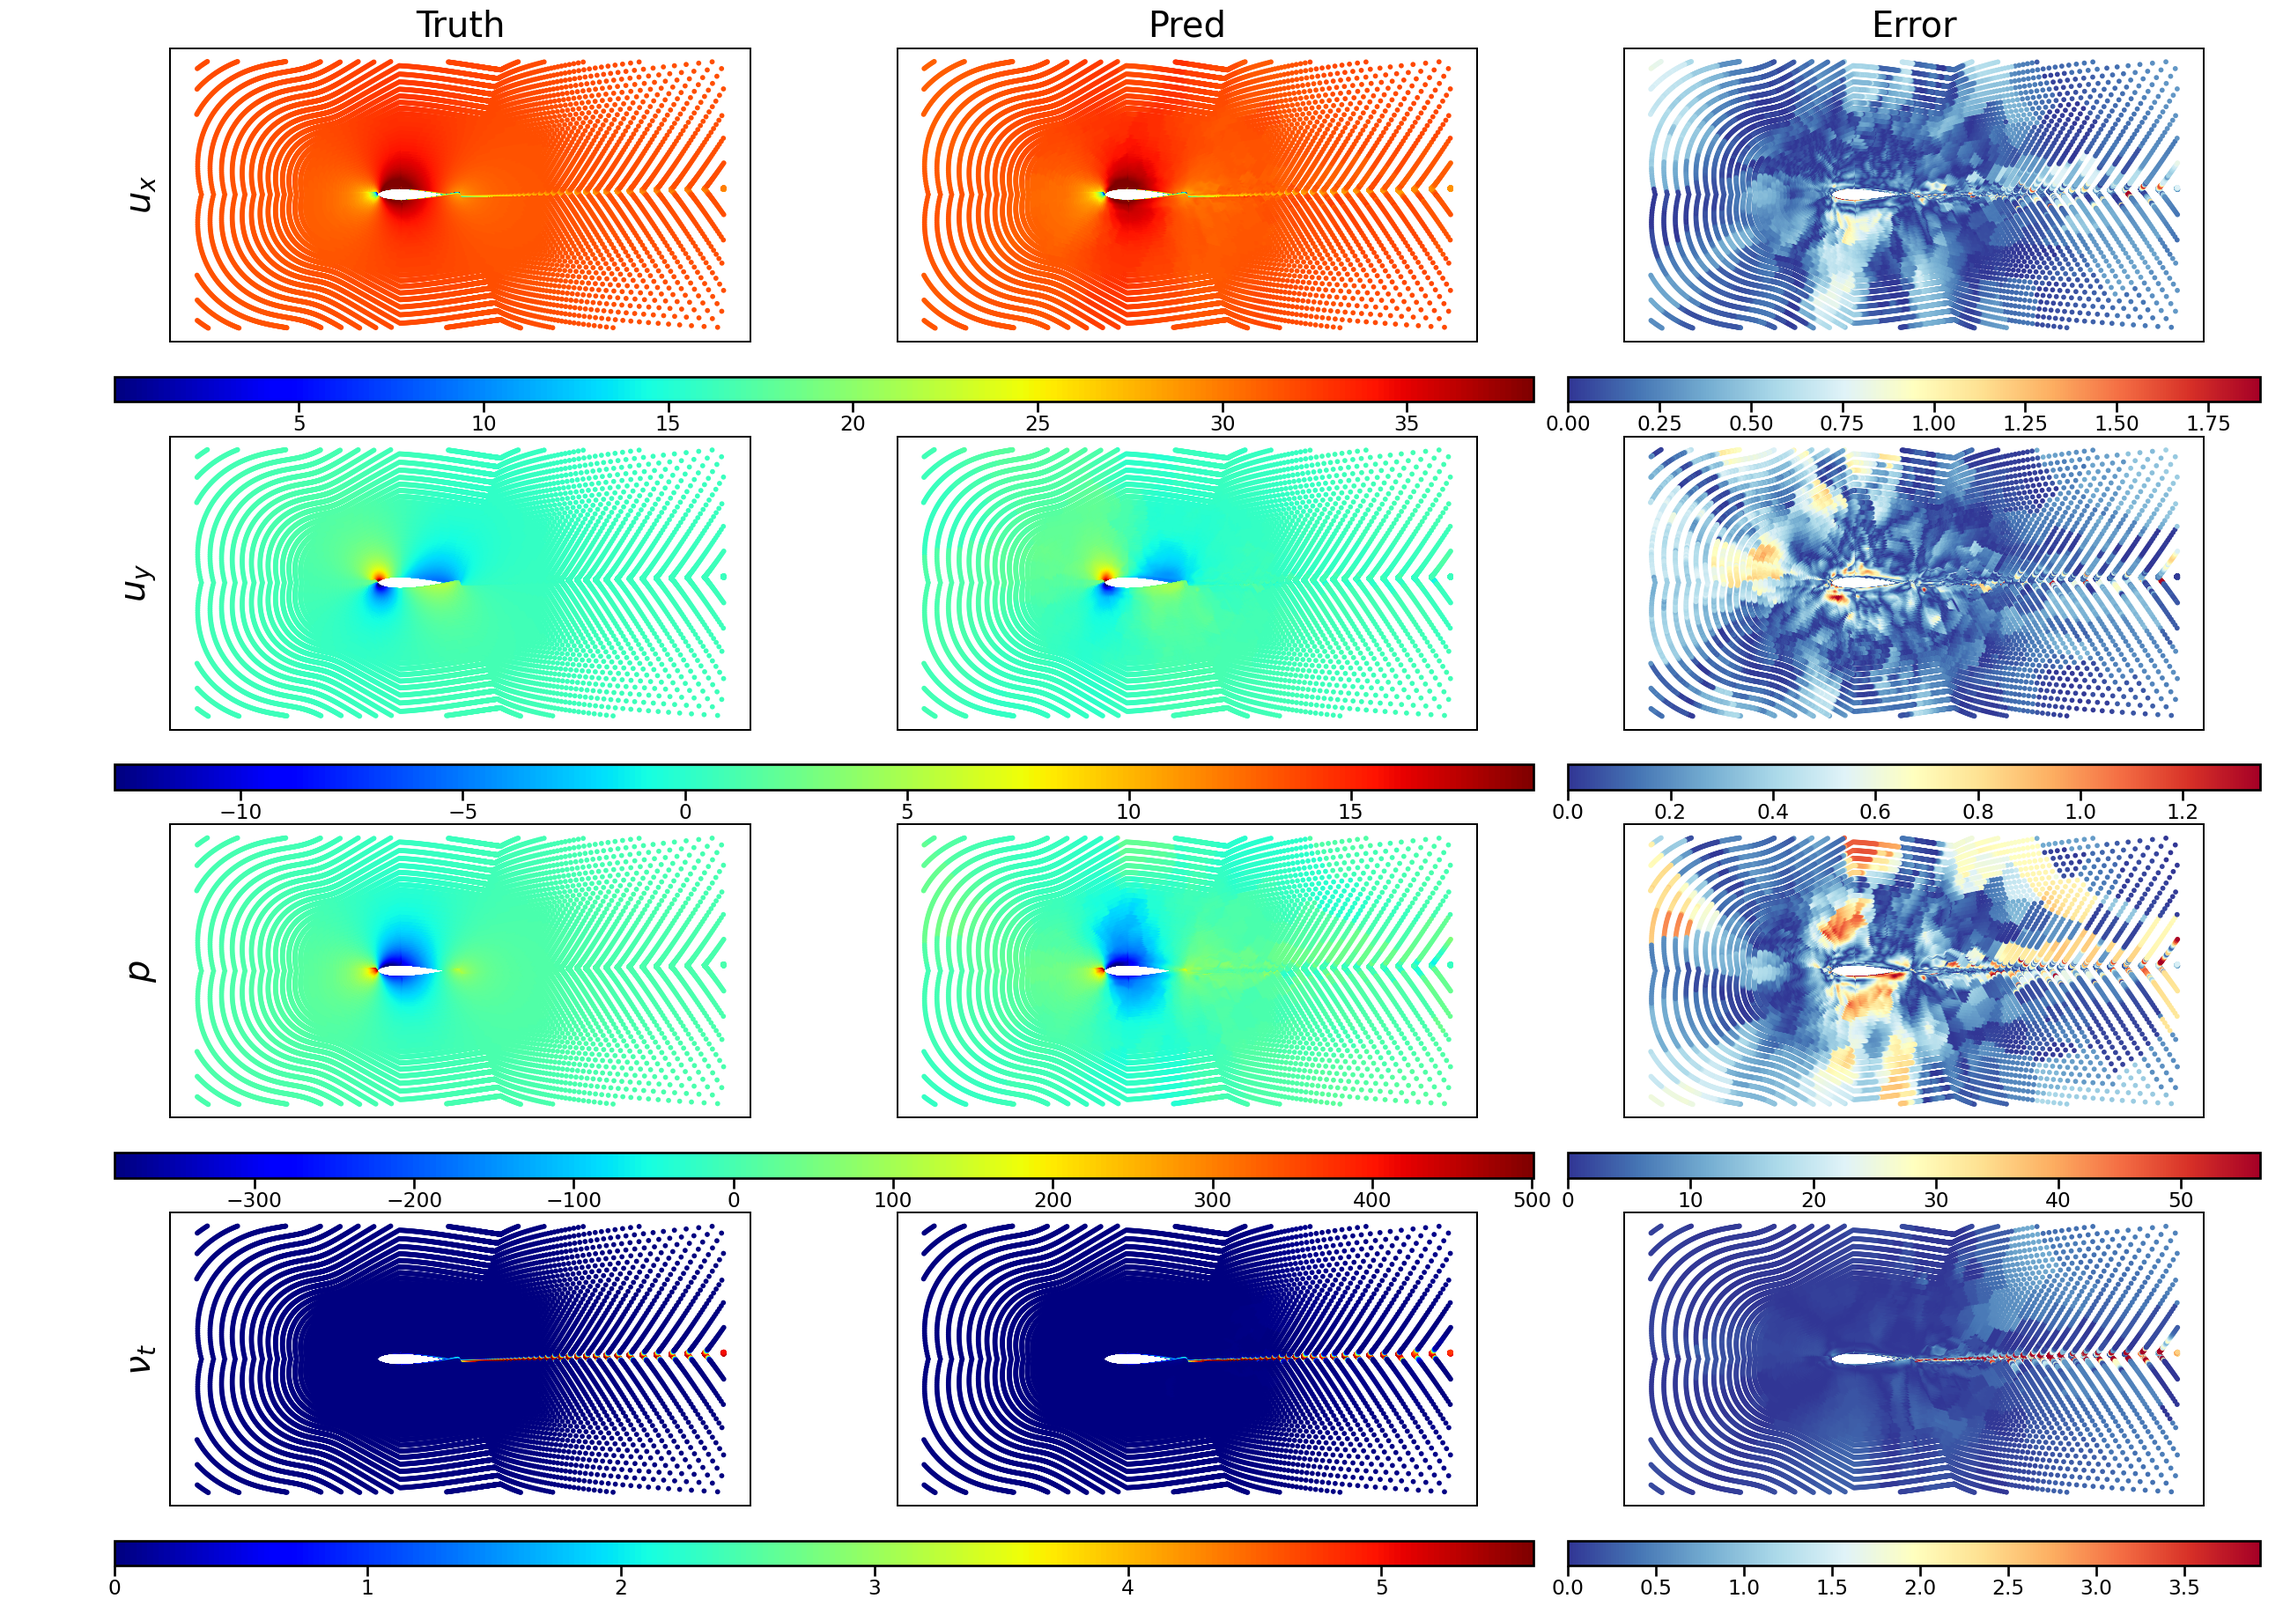
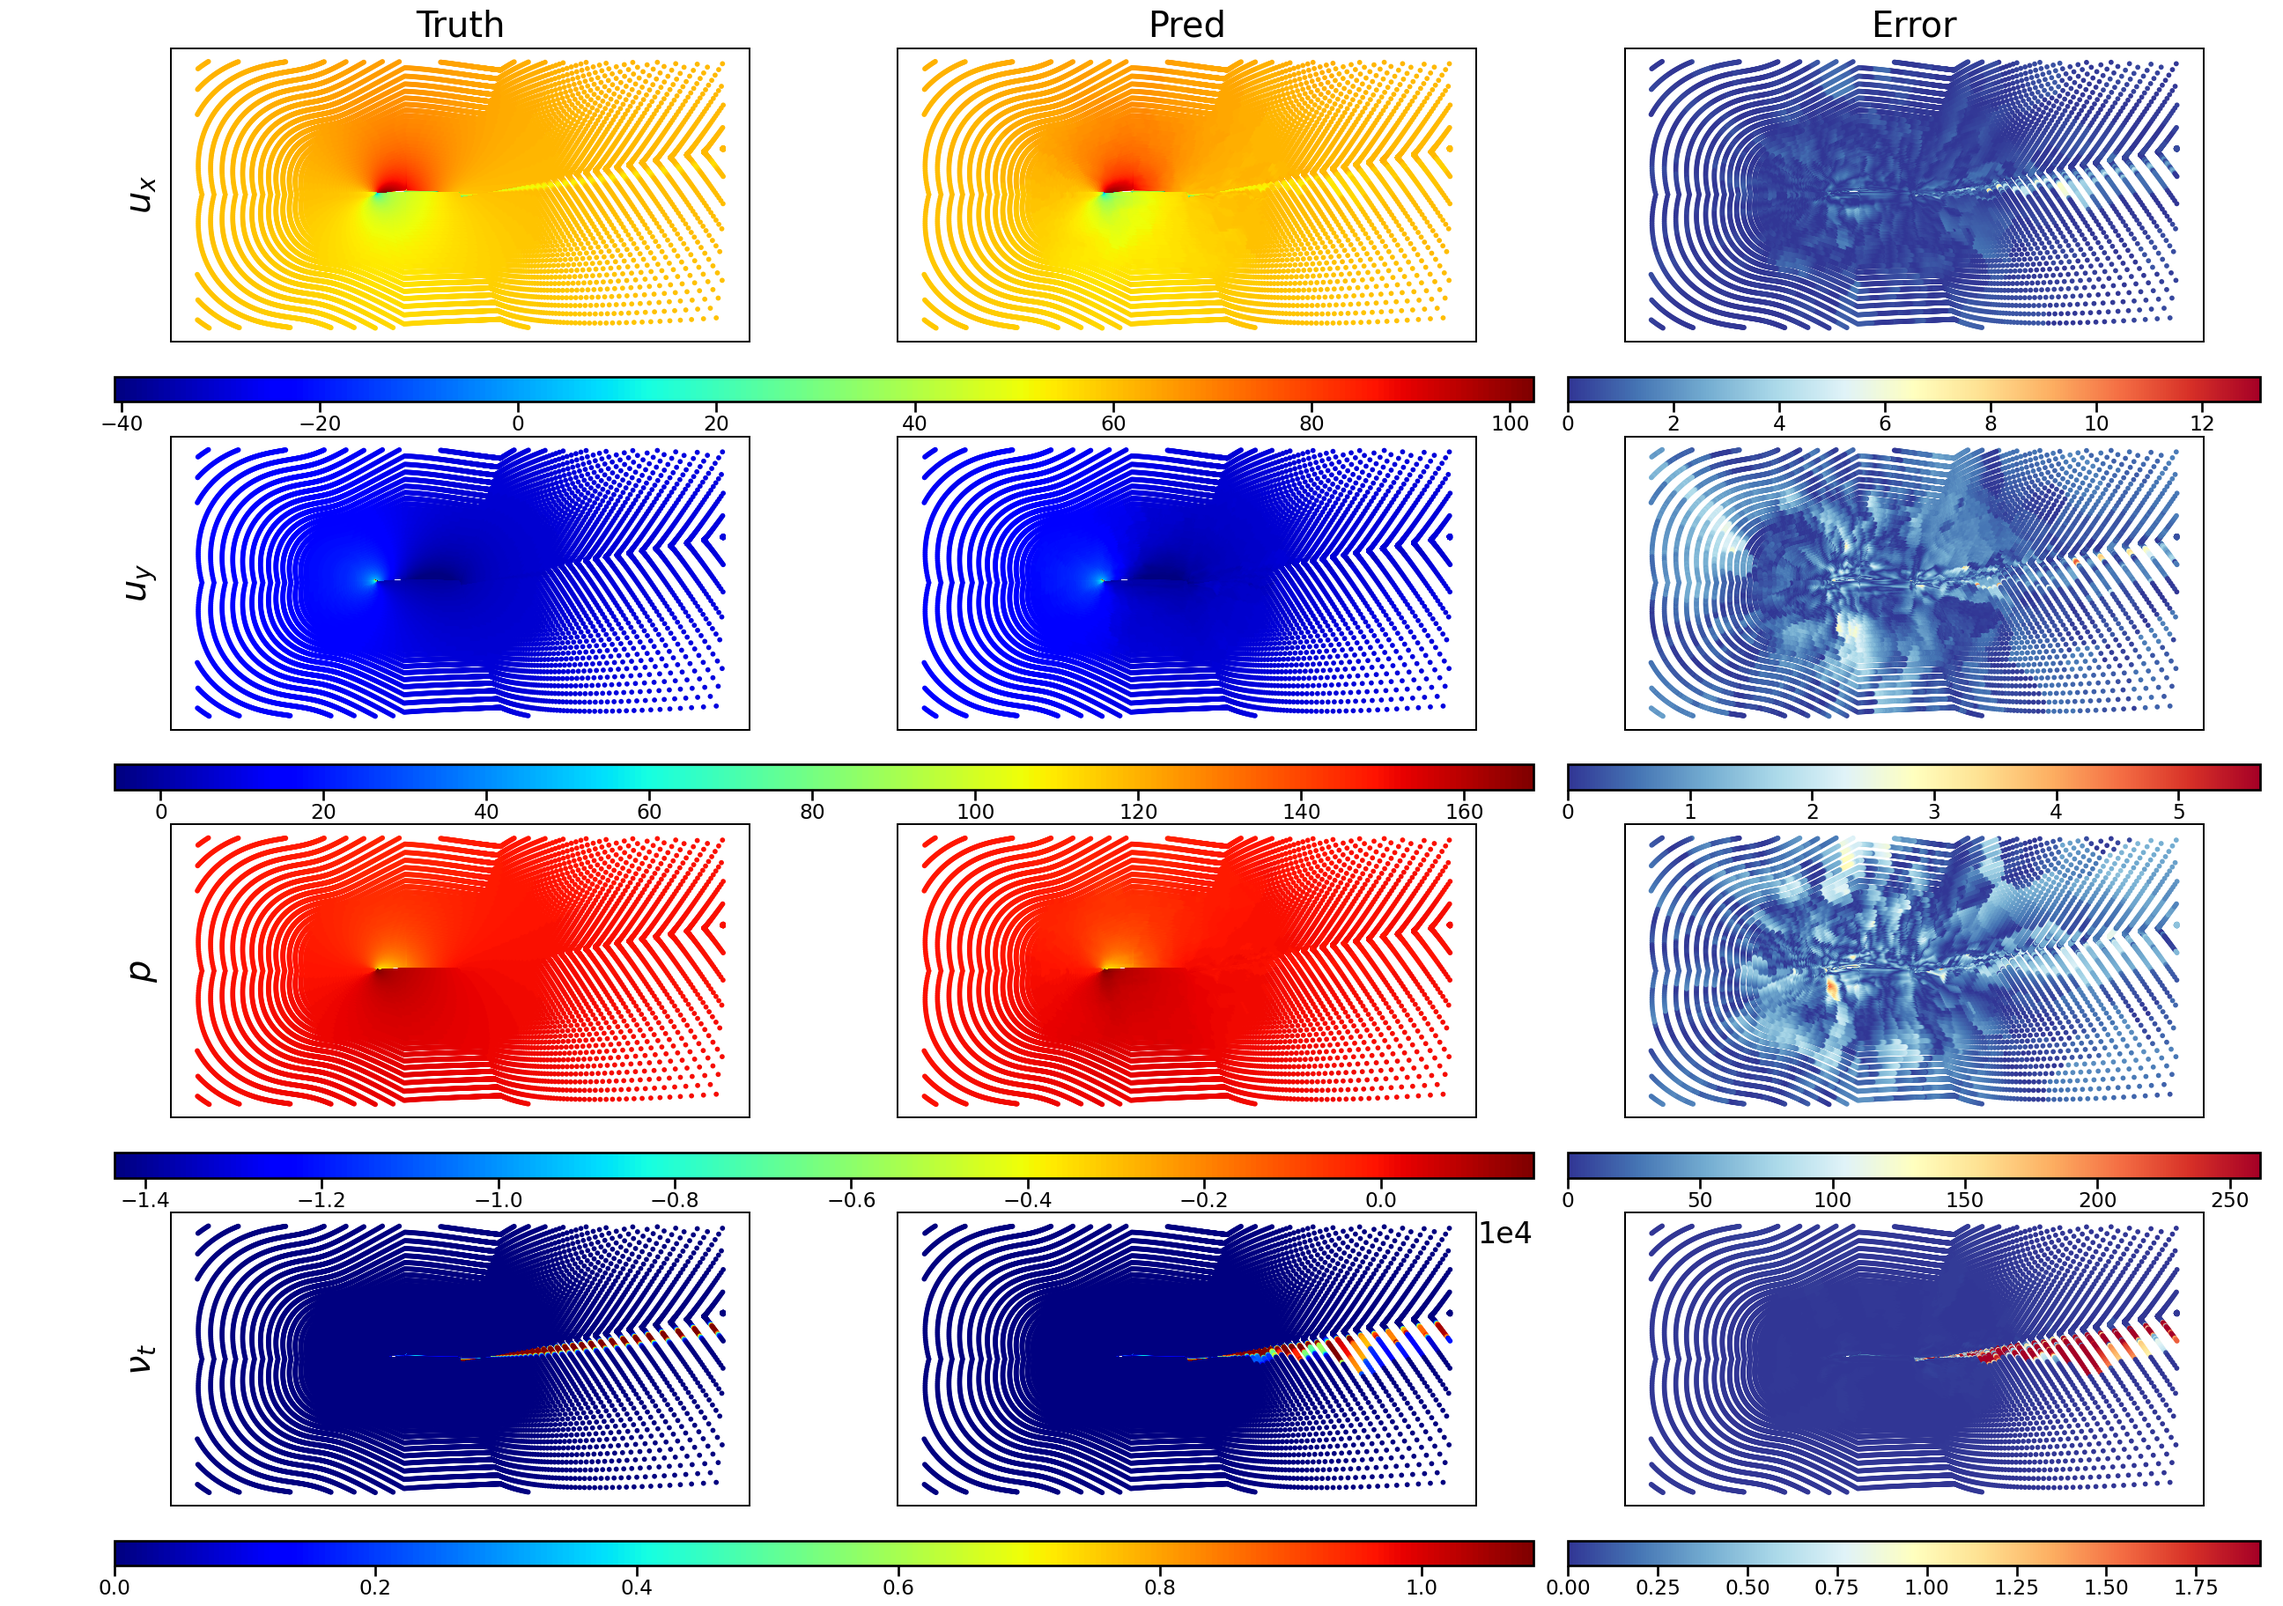
Split the AirfRANS field figure, pick a lower-error case, and tighten layout.
Full-field and near-wall maps are now separate figures. The visualised
AirfRANS case is replaced by one with much smaller pressure error.
The BlendedNet++ Cp figure is rolled so the nose points down-left and
is allowed to float, which removes the blank stretch on the preceding
page. Content-based self-attention is described in text rather than
by formula, following Chen's suggestion.

diff --git a/main.tex b/main.tex
@@ -193,18 +193,7 @@ and the learning task is to approximate $u_{g,\mathbf{c}}$ by $\Phi_{\theta}(a_{
 
 \subsection{Position-induced attention}
 \label{sec:posatt}
-A standard building block of Transformer architectures is content-based self-attention~\cite{vaswani2017attention}. Given a feature matrix $U\in\mathbb{R}^{N\times d}$ and trainable matrices $W^{Q}$, $W^{K}$ and $W^{V}$,
-\begin{equation}
-  \operatorname{SelfAtt}(U)
-  =
-  \operatorname{Softmax}
-  \biggl(
-    \frac{U W^{Q}\,(U W^{K})^{\top}}{\sqrt{d}}
-  \biggr)
-  \, U W^{V}.
-  \label{eq:self_att}
-\end{equation}
-The attention weights depend on feature affinities. Consequently they must be recomputed for every input field, and they do not directly encode the geometry of the underlying mesh. For PDE surrogates this is unnatural: the relative positions of sampling points largely determine how local information should be aggregated.
+A standard building block of Transformer architectures is content-based self-attention~\cite{vaswani2017attention}. Query, key and value projections of a feature matrix are combined through a softmax over pairwise feature affinities, so the weights depend on the current field values, must be recomputed for every input, and do not directly encode the geometry of the underlying mesh. For PDE surrogates this is unnatural: the relative positions of sampling points largely determine how local information should be aggregated.
 
 Position-induced attention incorporates such geometric structure in an explicit and efficient way~\cite{chen2024pit}. Let $U\in\mathbb{R}^{N_{v}\times d_{\ell}}$ collect the values of a feature field on a mesh $X_{v}=\{x_{i}\}_{i=1}^{N_{v}}$, and define the pairwise squared-distance matrix
 \begin{equation}
@@ -359,27 +348,25 @@ AirfRANS baselines are MLP~\cite{goodfellow2016deep}, GraphSAGE~\cite{hamilton20
 \subsection{AirfRANS results}
 \label{sec:airfrans}
 
-Velocity, pressure and eddy viscosity on one full-data test case are shown in Fig.~\ref{fig:pred_true}. The predicted fields recover the stagnation region, suction peak, pressure recovery and near-wake, while residuals remain concentrated near the wall. The example is used to visualise spatial error structure rather than to estimate dataset-level accuracy.
+Velocity, pressure and eddy viscosity on one full-data test case are shown in Figs.~\ref{fig:pred_true} and~\ref{fig:pred_true_nw}. The predicted fields recover the stagnation region, suction peak, pressure recovery and near-wake, while residuals remain concentrated near the wall. The example is used to visualise spatial error structure rather than to estimate dataset-level accuracy.
 
 \begin{figure}[H]
 \centering
-\begin{subfigure}[t]{\linewidth}
-  \centering
-  \includegraphics[width=0.98\linewidth,height=0.40\textheight,keepaspectratio]{figs/airfrans_ff_all.png}
-  \caption{Full field}
-\end{subfigure}\\[0.5em]
-\begin{subfigure}[t]{\linewidth}
-  \centering
-  \includegraphics[width=0.98\linewidth,height=0.40\textheight,keepaspectratio]{figs/airfrans_nw_all.png}
-  \caption{Near-wall view}
-\end{subfigure}
-\caption{AirfRANS fields on one full-data test case ($u_x$, $u_y$, $p$, $\nu_t$): CFD reference, CoPiT prediction and absolute error. Truth and prediction share a colour scale per variable; the error uses a separate scale.}
+\includegraphics[width=0.98\linewidth]{figs/airfrans_ff_all.png}
+\caption{AirfRANS full-field maps on one full-data test case ($u_x$, $u_y$, $p$, $\nu_t$): CFD reference, CoPiT prediction and absolute error. Truth and prediction share a colour scale per variable; the error uses a separate scale.}
 \label{fig:pred_true}
+\end{figure}
+
+\begin{figure}[H]
+\centering
+\includegraphics[width=0.98\linewidth]{figs/airfrans_nw_all.png}
+\caption{Near-wall view of the same AirfRANS test case as Fig.~\ref{fig:pred_true}.}
+\label{fig:pred_true_nw}
 \end{figure}
 
 Since $C_{d}$ and $C_{l}$ are obtained by surface integration of pressure and wall shear, Figure~\ref{fig:airfrans_surf_cmp} compares these surface quantities for CoPiT and Transolver on the same test airfoil. Wall shear is computed from the predicted velocity field under a no-slip wall condition. On this sample, the surface-pressure relative $L^{1}$ errors are approximately $0.06$ for CoPiT and $0.18$ for Transolver. The case-wise comparison is descriptive and does not replace test-set aggregate statistics.
 
-\begin{figure}[H]
+\begin{figure}[t]
 \centering
 \includegraphics[width=0.98\linewidth,height=0.34\textheight,keepaspectratio]{figs/airfrans_copit_vs_transolver_surf.png}
 \caption{Surface pressure and wall shear on one AirfRANS test case (\texttt{airFoil2D\_SST\_31.812\_\ldots}). Top: CoPiT; bottom: Transolver. Blue: CFD; orange: prediction. Wall shear is evaluated from the predicted velocity with a no-slip wall condition.}
@@ -547,7 +534,7 @@ GNOT        & 0.5234 & 0.5055 & 0.5088 & 0.5559 \\
 
 Surface $C_p$ on one test case (\texttt{test\_case\_0674}) is shown in Fig.~\ref{fig:blendednetpp_cp_cases}. Both CoPiT and Transolver recover the large-scale topology; CoPiT exhibits weaker error peaks near the wing--body junction on this sample (surface $C_p$ relative $L^{1}$ error of order $0.06$ versus $0.12$). The comparison is qualitative and is not used as evidence of population-level superiority.
 
-\begin{figure}[H]
+\begin{figure}[t]
 \centering
 \includegraphics[width=0.98\linewidth]{figs/blend_cp_case0674.png}
 \caption{BlendedNet++ surface $C_p$ on \texttt{test\_case\_0674}: CFD reference, CoPiT and Transolver predictions (shared colour scale), and absolute errors (shared colour scale).}
